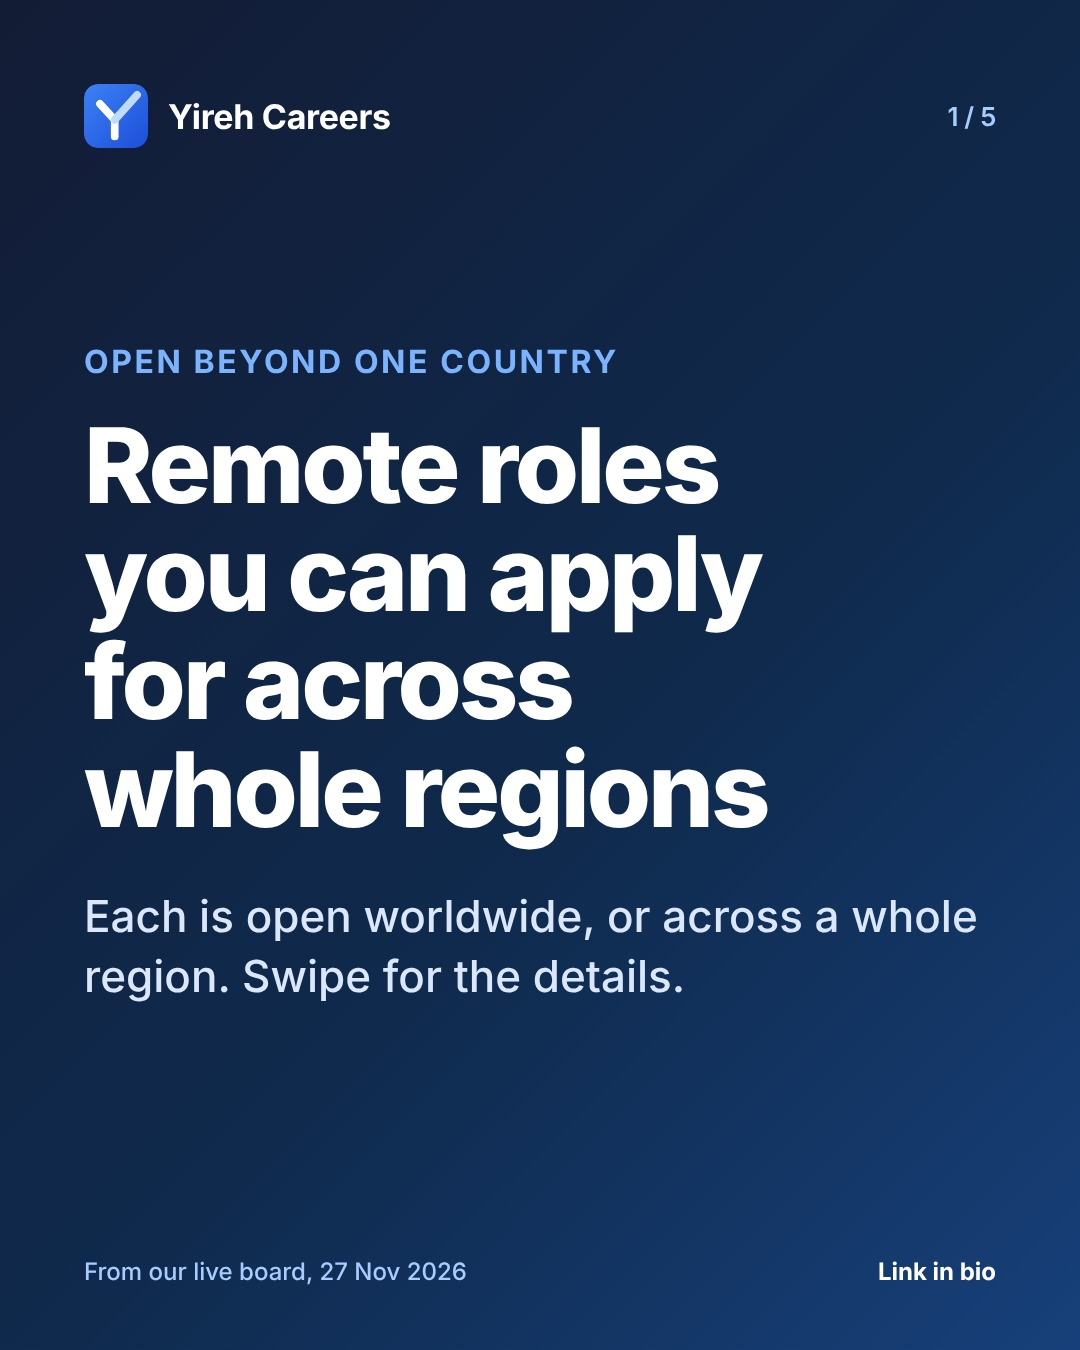
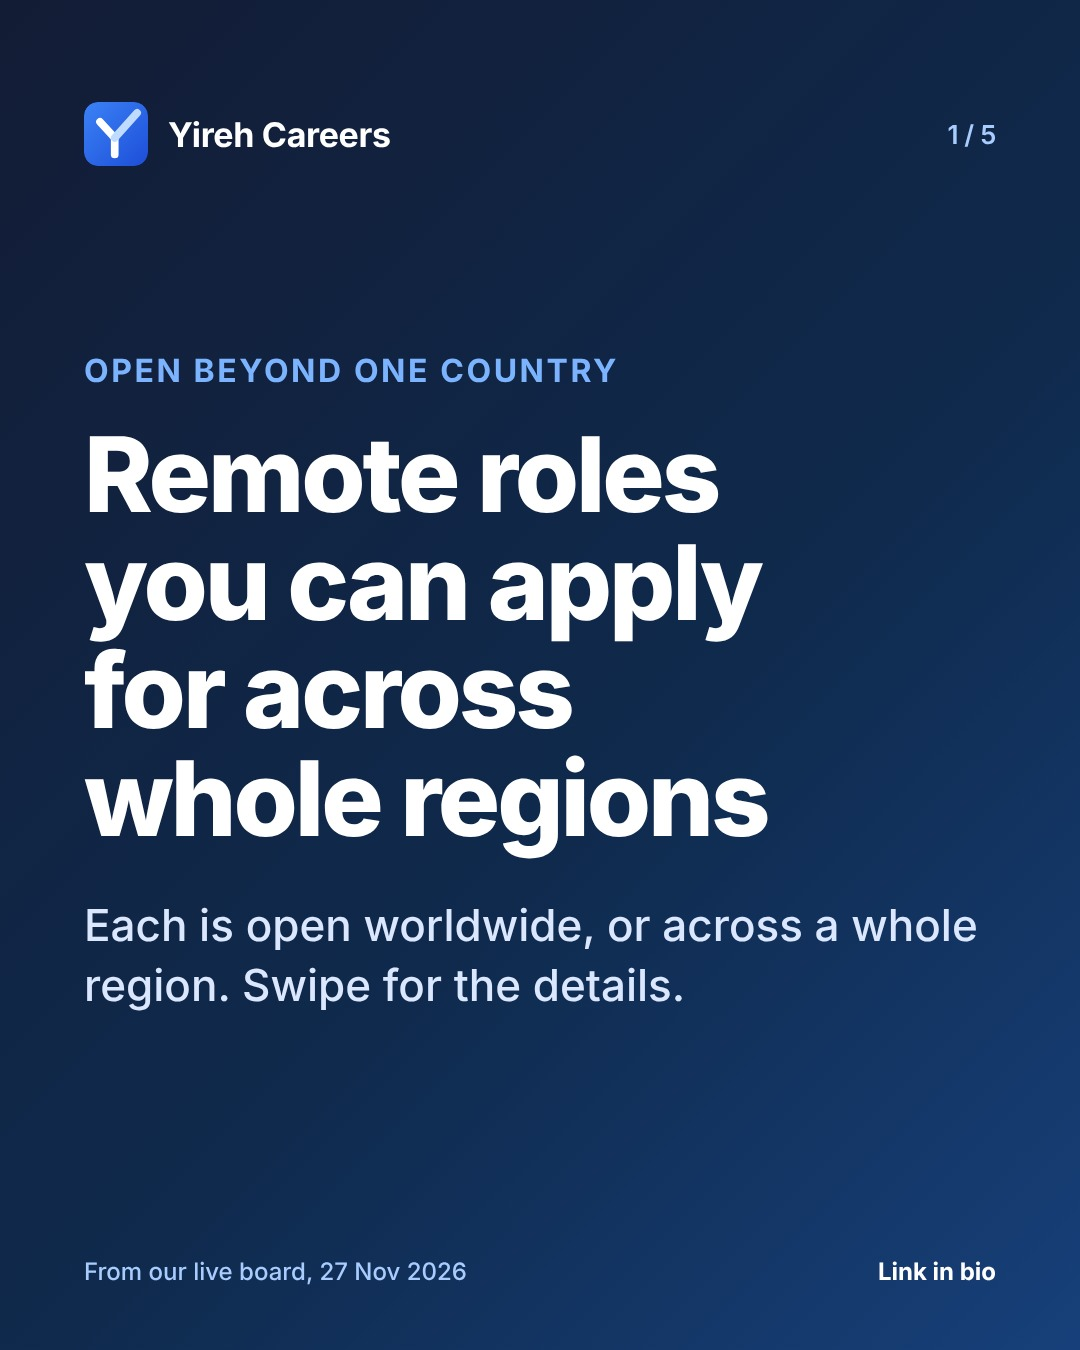
Social: question bank with trusted sources; brand colours stay dominant
- research/2026-11-27-question-bank-and-sources.md: no repository holds verified
  creative research (searched 27 Nov); source tiers (our tests > platform >
  peer-reviewed > vendor studies > blogs/repos); 40 questions across audience,
  message, colour, formats, hooks, covers, distribution, trust, measurement and
  conversion, each with its best source and status
- KT's colour question: distinctive-asset research (Ehrenberg-Bass) supports
  keeping blue and white dominant; amber and teal become accents on the light
  background, not full backgrounds; week 1 re-rendered (7 of 7 postings open)

Claude-Session: https://claude.ai/code/session_01Q41EjuZWPZfwQtakLZ2AMt

diff --git a/social/tools/render_posts.py b/social/tools/render_posts.py
@@ -50,10 +50,12 @@ THEMES = {
                   tip_bg="#2563eb", tip_fg="#ffffff", url_bg="#2563eb", url_fg="#ffffff"),
     "blue":  dict(bg="linear-gradient(135deg,#2563eb 0%,#1d4ed8 100%)", fg="#ffffff", kicker="#dbeafe", sub="#eff6ff",
                   foot="#dbeafe", em="#fde68a", tip_bg="#ffffff", tip_fg="#1d4ed8", url_bg="#ffffff", url_fg="#1d4ed8"),
-    "amber": dict(bg="#fbbc04", fg="#1a1a2e", kicker="#78350f", sub="#3b2a06", foot="#78350f", em="#78350f",
-                  tip_bg="#1a1a2e", tip_fg="#fbbc04", url_bg="#1a1a2e", url_fg="#ffffff"),
-    "teal":  dict(bg="linear-gradient(135deg,#0f766e 0%,#115e59 100%)", fg="#ffffff", kicker="#99f6e4", sub="#ecfdf5",
-                  foot="#ccfbf1", em="#99f6e4", tip_bg="#ffffff", tip_fg="#0f766e", url_bg="#ffffff", url_fg="#0f766e"),
+    # Amber and teal are accents on the light background, not full backgrounds (27 Nov 2026: distinctive-asset
+    # research says keep the brand colours dominant; see social/research/2026-11-27-question-bank-and-sources.md).
+    "amber": dict(bg="#eef2f8", fg="#1a1a2e", kicker="#b45309", sub="#3c4043", foot="#5f6368", em="#b45309",
+                  tip_bg="#f59e0b", tip_fg="#1a1a2e", url_bg="#2563eb", url_fg="#ffffff", bar="#f59e0b"),
+    "teal":  dict(bg="#eef2f8", fg="#1a1a2e", kicker="#0f766e", sub="#3c4043", foot="#5f6368", em="#0f766e",
+                  tip_bg="#0f766e", tip_fg="#ffffff", url_bg="#2563eb", url_fg="#ffffff", bar="#0f766e"),
 }
 # Default theme by series; a post can override with render.theme.
 SERIES_THEME = {"roles-carousel": "navy", "role-single": "navy", "tips": "light", "safety": "amber",
@@ -62,7 +64,7 @@ SERIES_THEME = {"roles-carousel": "navy", "role-single": "navy", "tips": "light"
 CSS = """
 *{box-sizing:border-box;margin:0;padding:0}
 html,body{width:%(w)dpx;height:%(h)dpx}
-body{font-family:'Inter',sans-serif;color:var(--fg);background:var(--bg);
+body{font-family:'Inter',sans-serif;color:var(--fg);background:var(--bg);border-top:18px solid var(--bar);
  position:relative;overflow:hidden;-webkit-font-smoothing:antialiased}
 .wrap{position:absolute;inset:0;padding:84px 84px 0;display:flex;flex-direction:column}
 .brand{display:flex;align-items:center;gap:20px;font-weight:700;font-size:34px;letter-spacing:-.01em}
@@ -95,7 +97,8 @@ h1 em{font-style:normal;color:var(--em)}
 
 def theme_css(name: str) -> str:
     t = dict(THEMES.get(name) or THEMES["navy"])
-    t.setdefault("ring", "#ffffff" if name in ("blue", "teal") else "transparent")
+    t.setdefault("ring", "#ffffff" if name == "blue" else "transparent")
+    t.setdefault("bar", "transparent")
     return ":root{" + ";".join(f"--{k}:{v}" for k, v in t.items()) + "}"
 
 

diff --git a/social/research/2026-11-27-question-bank-and-sources.md b/social/research/2026-11-27-question-bank-and-sources.md
@@ -1,0 +1,125 @@
+# The questions this agency must answer, and where trustworthy answers come from (27 Nov 2026)
+
+KT, 27 Nov: "what we need is what has been proven and researched to work… is there a repo that gives verified researched insights into brand colouring, copy, content creation, hooks, covers, thumbnails, hashtags? Compile a thorough list of the questions we need solid answers to, then find sources we can trust."
+
+## 1. Is there a repo? No.
+- Searched 27 Nov: GitHub and the web for curated, evidence-based marketing or creative research collections.
+- Found: Google's marketing-solutions repos (ad tooling, not research), small "ad optimisation" student projects, and the five agency frameworks assessed in `2026-11-27-agency-repos-assessment.md`.
+- No repository collects peer-reviewed or platform-verified findings on colour, hooks, covers or hashtags. The repos are methods: someone's way of working, not evidence that it works.
+- **What we do instead:** build our own evidence library (this file and `research/`), with every answer graded by the tiers below.
+
+## 2. Which sources to trust, in order
+| Tier | Source type | Trust | Examples we use |
+|---|---|---|---|
+| **1** | **Our own tests and numbers** | Highest for *our* audience; small samples at first | Buffer metrics, GoatCounter by `utm_source`, Instagram Trial Reels (shown to non-followers first), YouTube Test & Compare if we ever post there |
+| **2** | **The platform itself** | High for how ranking works and the rules; it doesn't tell us what our audience likes | Instagram's head Adam Mosseri and @creators; creators.instagram.com; TikTok Creative Center and Creator Academy; YouTube Help and its Creator Liaison; Meta Business Help |
+| **3** | **Peer-reviewed research and research institutes** | High for general human behaviour; check sample, date and context | Ehrenberg-Bass Institute (distinctive brand assets); Elliot & Maier, *Annual Review of Psychology* 2014 (colour); Labrecque & Milne, *JAMS* 2012 (colour and brand personality); Kanuri et al., *IJRM* 2024 (colour complexity); Bakhshi et al., CHI 2014 (faces on Instagram); Lingnan University, *J. Business Research* 2024 (16,215 YouTube thumbnails) |
+| **4** | **Large vendor studies** | Medium: big samples, their own customers and definitions, commercial motive | Buffer (millions of posts), Sprout Social, Socialinsider, Dash Social, 1of10 (300,000 YouTube videos) |
+| **5** | **Blogs, gurus, AI answers, GitHub repos** | Ideas to test, never evidence | Most "X% more clicks" claims |
+
+**Watch for laundered numbers.** Example (MarkStudios' source audit, Sept 2026): "faces get 38% more clicks" is quoted everywhere for YouTube. It actually comes from a 2014 study of *likes on Instagram photos* (Georgia Tech and Yahoo Labs, 1.1 million photos). Every number we use is traced to its original source.
+
+## 3. Your question first: a yellow post leading to a blue-and-white board
+- **Your instinct has support** (Tier 3). The Ehrenberg-Bass Institute's research on distinctive brand assets says colour, font and logo help people recognise a brand in clutter only when used consistently. Romaniuk: "Inconsistencies in colours, fonts, logos and the like are the enemy of distinctive asset building" and "Consistency is crucial."
+- **Practitioner advice agrees** (Tier 5). "Message match" from conversion practice (Unbounce and others) says the ad and the page it opens should look and promise the same. We found no peer-reviewed test of ad-to-page colour match specifically.
+- **Colour meaning depends on context** (Tier 3). The strongest review (Elliot & Maier, 2014) finds colour effects real but dependent on context. It rejects universal rules like "blue means trust".
+  - Labrecque & Milne (2012) found what predicts preference is the colour *fitting the brand's personality*.
+  - Blue suits "competent and reliable", which is what a job board that verifies postings wants to be.
+- **Variety still helps attention** (Tier 3). Kanuri et al. (2024) found more colour variety *inside* an image draws attention and engagement.
+- **How to reconcile them (our reading, to test):**
+  - Keep **blue and white as the dominant brand colours on every post**: the mark, the blue, Inter, the white card.
+  - Get variety from **inside** the image: real board screenshots, coloured pills and labels, one accent colour per series (amber for warnings, teal for the service) used as a highlight, not as the whole background.
+  - Full-bleed yellow or teal posts are the weakest choice by this evidence. I'm changing the renderer to match (section 5).
+
+## 4. The question bank
+Status: **A** = answered well enough to act on (source given) · **P** = partly answered; act on it and test · **O** = open; only our own data can answer it.
+
+### A. Audience
+| # | Question | Best source | Status |
+|---|---|---|---|
+| A1 | Where do our viewers and visitors actually live? | T1: GoatCounter locations (PR #80), TikTok and Instagram audience tabs | O |
+| A2 | What languages do they read comfortably? | T1 + T3 | O (Latin America is Spanish/Portuguese-first: niche research 26 Nov, T4) |
+| A3 | When are our followers online? | T1: TikTok Studio, Instagram Insights | O (starting rule: 15:00 UTC) |
+| A4 | What do they fear and want, in their words? | Comments, Reddit, Nairaland (audience research 31 Oct) | P |
+| A5 | What do they search for on TikTok and Instagram? | T2: TikTok Creative Center keyword insights; T1 search terms | O |
+
+### B. Message and positioning
+| # | Question | Best source | Status |
+|---|---|---|---|
+| B1 | What is our one promise, and what proves it? | Our product + decision 26 Nov ("people outside the US") | A |
+| B2 | How are we different from the big free boards with a country filter? | T1 competitor check (16 Nov review: Himalayas, Remote Rocketship) | P |
+| B3 | Which claims can we make legally and honestly? | CLAUDE.md copy rules; FTC and EU unfair-practices guidance | A |
+
+### C. Brand identity and colour
+| # | Question | Best source | Status |
+|---|---|---|---|
+| C1 | Should every post use the brand colours, or vary? | T3 Ehrenberg-Bass; Elliot & Maier; Kanuri | A (section 3) |
+| C2 | Which brand elements must never change? | T3 Ehrenberg-Bass (mark, colour, font) | A: YC mark, blue, Inter, card |
+| C3 | Do colours mean different things to our audience's cultures? | T3 cross-cultural colour research (Aslam 2006, in the reviews) | P: meanings are culture-dependent; we use colour for recognition, not symbolism |
+| C4 | Is our text readable on phones, in sunlight, for low vision? | WCAG contrast standard | A: check every theme (AA) |
+| C5 | Does a post that looks like the site convert better than one that doesn't? | T1 test | O |
+
+### D. Formats per platform
+| # | Question | Best source | Status |
+|---|---|---|---|
+| D1 | Which formats reach new people on each platform? | T2 Mosseri; T4 Buffer, Socialinsider | A (`2026-11-27-formats-and-colour.md`) |
+| D2 | Carousel or single image? | T2 Mosseri, 23 Oct 2026: carousels do better | A |
+| D3 | How long should our videos be? | T4 Buffer, 2.7 million Reels; T2 TikTok; T1 our watch time | P |
+| D4 | How many slides per carousel? | T4 | O |
+| D5 | Are Stories worth it with few followers? | T2 (Stories reach followers) | P: cheap; test once there are followers |
+| D6 | Does the same file posted to all three hurt reach (watermarks, crops)? | T2 platform guidance on originality and watermarks | P: post clean, original files only |
+
+### E. Hooks and copy
+| # | Question | Best source | Status |
+|---|---|---|---|
+| E1 | What must happen in the first 1–3 seconds? | T2 TikTok and Instagram creator guidance | A: the point and motion up front |
+| E2 | Number vs question vs statement hooks | T3 Lingnan 2024 (question titles went with fewer views, observational); T1 tests | P |
+| E3 | How long should captions be? | T4 | O |
+| E4 | Which call to action gets clicks without looking like a scam? | Audience research (Fear 2) + T1 | P: link in bio, never "DM me" |
+| E5 | Does negative framing ("stop wasting…") help or hurt? | T3 Kanuri 2024 (negative text weakened the colour effect); T1 | P |
+| E6 | Plain English level for second-language readers | Plain-language standards (UK/Australian style manuals) | A: short, plain, one idea per line |
+
+### F. Covers, thumbnails and visuals
+| # | Question | Best source | Status |
+|---|---|---|---|
+| F1 | What makes a cover or thumbnail get tapped? | T2 YouTube: tests are judged on watch time, not clicks, to avoid clickbait; T3 Lingnan 2024 (faces and text went with more views; long text with fewer clicks) | P |
+| F2 | Faces or no faces? | T3 Bakhshi 2014 (Instagram likes +38%); T4 1of10 (300,000 YouTube videos: no overall difference, depends on niche) | P: test |
+| F3 | Text on the cover: how much? | T3 Lingnan 2024 (long text worse) | P: about 6 words or fewer |
+| F4 | AI presenter, human voice, or screen only? | T3 (AI presenter trust studies, 26 Nov research) | P: test; AI label always |
+| F5 | Real screenshots vs designed slides | T3 Kanuri (colour complexity); T1 | P |
+
+### G. Distribution
+| # | Question | Best source | Status |
+|---|---|---|---|
+| G1 | Best days and times | T4 studies conflict; T1 | O (starting 15:00 UTC) |
+| G2 | How often to post | T4 vendor studies (not yet read for this); T1 | O |
+| G3 | Do hashtags help, and how many? | T2 Instagram: 5 maximum since Dec 2025, "generic tags don't help"; T3 Martínez-Borda 2026 on TikTok: relevance and combination matter more than count | A: 3–5 relevant tags |
+| G4 | Keywords in captions and on screen for TikTok and Instagram search | T2 TikTok Creative Center | P |
+| G5 | Trending audio: does it help, and is it licensed for business accounts? | T2 (business accounts are limited to commercial music) | P |
+
+### H. Trust and compliance
+| # | Question | Best source | Status |
+|---|---|---|---|
+| H1 | When must we label AI? | T2 TikTok and Meta rules | A |
+| H2 | What makes a job post look like a scam to our audience? | Audience research; T2 platform scam guidance | A |
+| H3 | Can we show real candidates or results? | FTC endorsement guides; CLAUDE.md | A: only real, consented, typical |
+
+### I. Measurement and testing
+| # | Question | Best source | Status |
+|---|---|---|---|
+| I1 | Which number judges each kind of post? | T2 Mosseri: sends per reach, likes per reach, watch time | A (funnel field on every post) |
+| I2 | How many posts before we can call a winner? | Statistics; T2 YouTube's own test waits for a "meaningful difference" | P: our working rule (not a cited standard) is no calls under about 1,000 views per variant |
+| I3 | How to test fairly with a small account | T2 Instagram Trial Reels (same audience type) | A: use Trial Reels for hook tests |
+| I4 | Which visits and enquiries came from social? | T1 UTM + GoatCounter; Facebook per-post links | P |
+
+### J. Conversion
+| # | Question | Best source | Status |
+|---|---|---|---|
+| J1 | Does the bio and profile tell people what to do next? | T2 platform profile guidance; T1 | O |
+| J2 | Where should the link land: home, a filtered view, or a social landing page? | Practitioner message match (T5) + T1 test | O |
+| J3 | What turns a board visitor into a free-check request? | T1 (site analytics, job-board session) | O |
+
+## 5. What changes now
+1. **Colours.** Blue and white dominate every post. Amber and teal become accents (labels, number tiles, highlight bars) on the light background, not full backgrounds. Evidence in section 3. The navy, light and bright-blue themes stay.
+2. **Hook tests run as Instagram Trial Reels** when there are videos (shown to non-followers first; Instagram's own feature).
+3. **Every new "fact" about what works** gets its tier, source and date in `research/`; Tier 5 claims are never used as reasons on their own.

diff --git a/social/calendar/2026-12-01.md b/social/calendar/2026-12-01.md
@@ -68,7 +68,7 @@ Bio link (one per platform, so per-post clicks cannot be told apart): `https://y
 2. 3 role card(s) picked on the day from the live feed
 3. (cta) Find yours on the board — Type where you live and see only the jobs open to you.
 
-**Preview rendered 2026-11-27 08:05 UTC** (re-rendered on the post day): [`01.jpg`](../output/2026-12-02/w49-p2/01.jpg), [`02.jpg`](../output/2026-12-02/w49-p2/02.jpg), [`03.jpg`](../output/2026-12-02/w49-p2/03.jpg), [`04.jpg`](../output/2026-12-02/w49-p2/04.jpg), [`05.jpg`](../output/2026-12-02/w49-p2/05.jpg)
+**Preview rendered 2026-11-27 08:19 UTC** (re-rendered on the post day): [`01.jpg`](../output/2026-12-02/w49-p2/01.jpg), [`02.jpg`](../output/2026-12-02/w49-p2/02.jpg), [`03.jpg`](../output/2026-12-02/w49-p2/03.jpg), [`04.jpg`](../output/2026-12-02/w49-p2/04.jpg), [`05.jpg`](../output/2026-12-02/w49-p2/05.jpg)
 
 | Role in the preview | Company | Apply from | Posted | Pay | Posting open? |
 |---|---|---|---|---|---|
@@ -106,7 +106,7 @@ Bio link (one per platform, so per-post clicks cannot be told apart): `https://y
 4. (tip) Not clear? Ask first — Email the recruiter before you spend an hour on the form.
 5. (cta) Or start with the board — Tell it where you live — It shows only the jobs that say they're open to you.
 
-**Preview rendered 2026-11-27 08:05 UTC** (re-rendered on the post day): [`01.jpg`](../output/2026-12-03/w49-p3/01.jpg), [`02.jpg`](../output/2026-12-03/w49-p3/02.jpg), [`03.jpg`](../output/2026-12-03/w49-p3/03.jpg), [`04.jpg`](../output/2026-12-03/w49-p3/04.jpg), [`05.jpg`](../output/2026-12-03/w49-p3/05.jpg)
+**Preview rendered 2026-11-27 08:19 UTC** (re-rendered on the post day): [`01.jpg`](../output/2026-12-03/w49-p3/01.jpg), [`02.jpg`](../output/2026-12-03/w49-p3/02.jpg), [`03.jpg`](../output/2026-12-03/w49-p3/03.jpg), [`04.jpg`](../output/2026-12-03/w49-p3/04.jpg), [`05.jpg`](../output/2026-12-03/w49-p3/05.jpg)
 
 **Caption:**
 
@@ -134,7 +134,7 @@ Bio link (one per platform, so per-post clicks cannot be told apart): `https://y
 
 1. 1 role card(s) picked on the day from the live feed, open worldwide only
 
-**Preview rendered 2026-11-27 08:05 UTC** (re-rendered on the post day): [`01.jpg`](../output/2026-12-04/w49-p4/01.jpg)
+**Preview rendered 2026-11-27 08:19 UTC** (re-rendered on the post day): [`01.jpg`](../output/2026-12-04/w49-p4/01.jpg)
 
 | Role in the preview | Company | Apply from | Posted | Pay | Posting open? |
 |---|---|---|---|---|---|
@@ -168,7 +168,7 @@ Bio link (one per platform, so per-post clicks cannot be told apart): `https://y
 2. 3 role card(s) picked on the day from the live feed
 3. (cta) Find yours on the board — Type where you live and see only the jobs open to you.
 
-**Preview rendered 2026-11-27 08:05 UTC** (re-rendered on the post day): [`01.jpg`](../output/2026-12-05/w49-p5/01.jpg), [`02.jpg`](../output/2026-12-05/w49-p5/02.jpg), [`03.jpg`](../output/2026-12-05/w49-p5/03.jpg), [`04.jpg`](../output/2026-12-05/w49-p5/04.jpg), [`05.jpg`](../output/2026-12-05/w49-p5/05.jpg)
+**Preview rendered 2026-11-27 08:19 UTC** (re-rendered on the post day): [`01.jpg`](../output/2026-12-05/w49-p5/01.jpg), [`02.jpg`](../output/2026-12-05/w49-p5/02.jpg), [`03.jpg`](../output/2026-12-05/w49-p5/03.jpg), [`04.jpg`](../output/2026-12-05/w49-p5/04.jpg), [`05.jpg`](../output/2026-12-05/w49-p5/05.jpg)
 
 | Role in the preview | Company | Apply from | Posted | Pay | Posting open? |
 |---|---|---|---|---|---|
@@ -206,7 +206,7 @@ Bio link (one per platform, so per-post clicks cannot be told apart): `https://y
 4. (tip) A role you can't find — Look for the job on the company's careers site before you send anything.
 5. (cta) How our board works — We never charge you to apply — Every job on it opens its original posting, with the date it was posted.
 
-**Preview rendered 2026-11-27 08:05 UTC** (re-rendered on the post day): [`01.jpg`](../output/2026-12-07/w49-p6/01.jpg), [`02.jpg`](../output/2026-12-07/w49-p6/02.jpg), [`03.jpg`](../output/2026-12-07/w49-p6/03.jpg), [`04.jpg`](../output/2026-12-07/w49-p6/04.jpg), [`05.jpg`](../output/2026-12-07/w49-p6/05.jpg)
+**Preview rendered 2026-11-27 08:19 UTC** (re-rendered on the post day): [`01.jpg`](../output/2026-12-07/w49-p6/01.jpg), [`02.jpg`](../output/2026-12-07/w49-p6/02.jpg), [`03.jpg`](../output/2026-12-07/w49-p6/03.jpg), [`04.jpg`](../output/2026-12-07/w49-p6/04.jpg), [`05.jpg`](../output/2026-12-07/w49-p6/05.jpg)
 
 **Caption:**
 

diff --git a/social/brand-guide.md b/social/brand-guide.md
@@ -54,10 +54,10 @@ Status: **PROPOSED** (Phase 0). Binding rules come from `CLAUDE.md` and `drafts/
 |---|---|---|---|
 | Roles (carousels, single role) | navy | hero navy gradient | white |
 | Tips (eligibility, reading a posting) | light | `#eef2f8` | `#1a1a2e`, blue kickers |
-| Safety and scams | amber | `#fbbc04` | `#1a1a2e`, brown kickers |
+| Safety and scams | amber accent | `#eef2f8` with an amber top bar and number tiles | `#1a1a2e`, dark amber kickers |
 | Numbers and the weekly video's cover | blue | `#2563eb` → `#1d4ed8` | white; mark ringed in white |
-| CV service | teal | `#0f766e` → `#115e59` | white; mark ringed in white |
-The mark, Inter, the card and the footer never change, so every colour still reads as Yireh.
+| CV service | teal accent | `#eef2f8` with a teal top bar and tiles | `#1a1a2e`, teal kickers |
+Blue and white dominate every post; amber and teal are accents only, never full backgrounds (distinctive-asset evidence: `research/2026-11-27-question-bank-and-sources.md`, section 3). The mark, Inter, the card and the footer never change.
 
 **Templates** (all built by `social/tools/render_posts.py`, 1080x1350):
 1. **Cover**: kicker (caps, light blue) → headline (Inter 800, ~104 px) → one-line sub. Content centred vertically.
